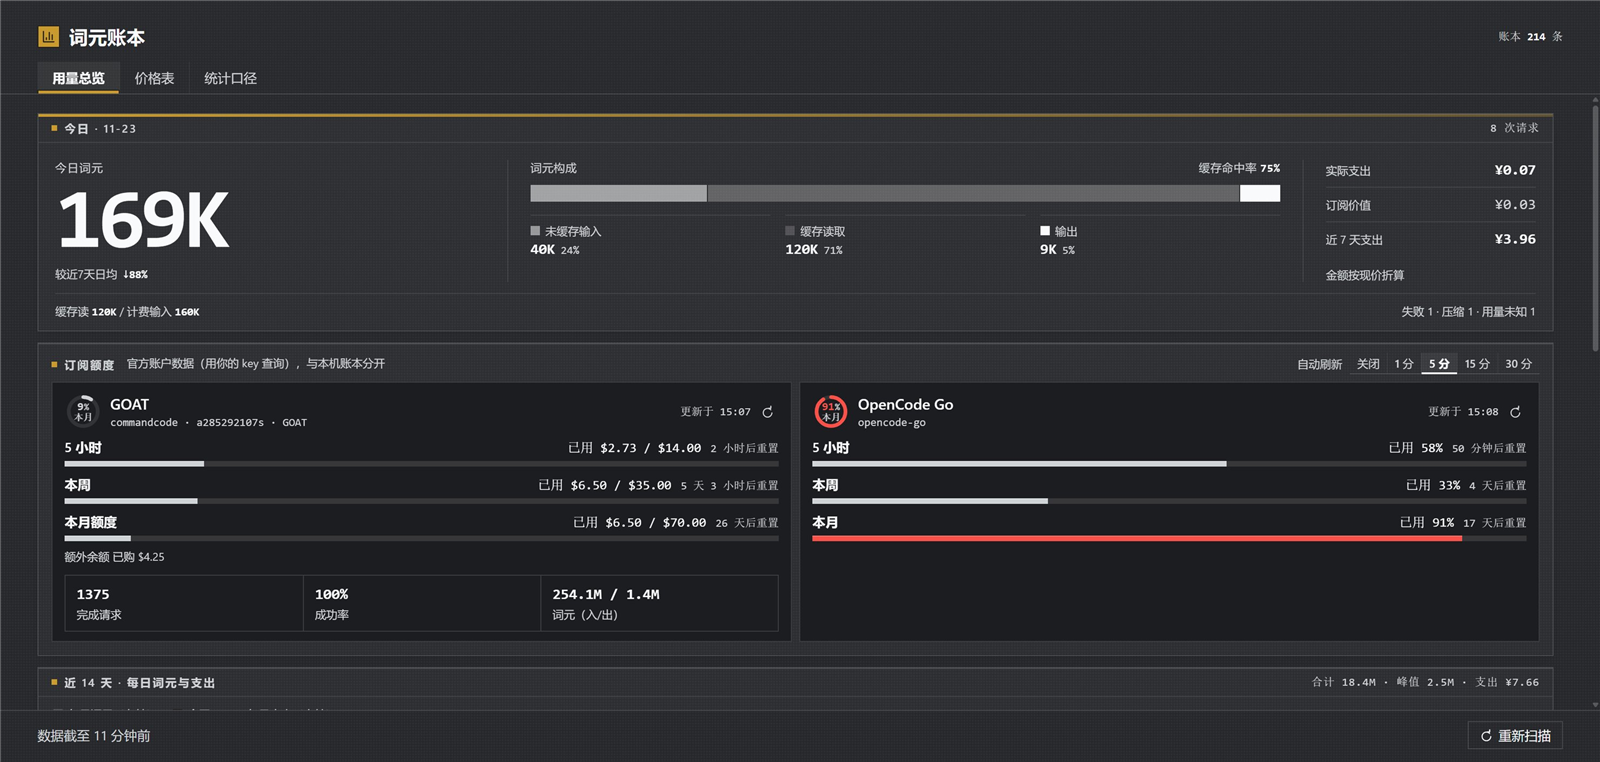
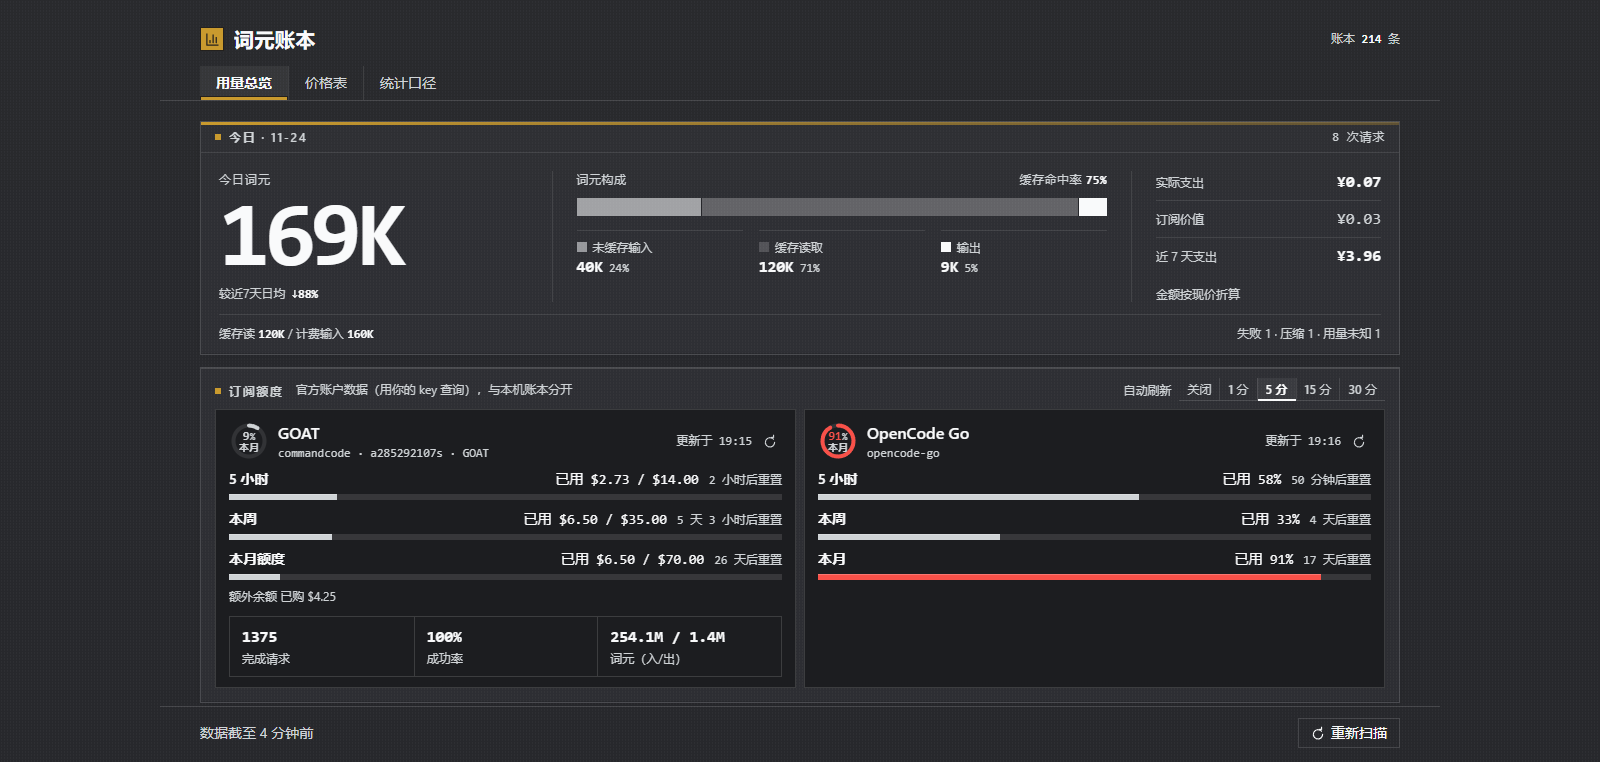
docs: README 截图按现界面重拍，价格表段对齐
- 六张界面图（总览浅/深、价格表、统计口径、用量明细、订阅额度）停在旧版：版心还是 1760、
  年历还是旧交互。用 fixture 预览台按当前界面全部重拍，替换 docs/assets/ 下的同名文件。
- README.md 价格表那段跟着现行版式重写：现在是「选择卡（通道 / 模型 / 汇率）+ 满行工作台
  （左编辑表、右此刻计费轨）」，法定节假日年历是工作台下方一张独立满行卡，按年分组、点起止日
  划一段假期，每段可改可删且可撤销；旧说法「工作台里含年历、汇率在选择带」已过时。
- meta last-reviewed 刷到 2026-11-24。

两张 README 共用 docs/assets/ 这批图，所以中文那份引用的也是新图（其正文本次不改）。

diff --git a/README.md b/README.md
@@ -1,6 +1,6 @@
 # dsh-tokbook
 
-> **Doc meta** · role: entry · language: en · status: current · last-reviewed: 2026-11-23 · supersedes: —
+> **Doc meta** · role: entry · language: en · status: current · last-reviewed: 2026-11-24 · supersedes: —
 
 A **cross-session token-usage ledger for DeepSeek Harness (DSH)**. The host half folds every billed model
 call into one row of a local, per-day JSONL ledger and aggregates it with costs; the browser half shows it
@@ -74,11 +74,11 @@ view reports tokens only. Tokens are facts, prices are not.
    Usage detail** as a full-width table. Money appears only in windows of 30 days or less. The cards keep
    their full-row width; their internal grids collapse (today: three zones → two → one, quota: two cards
    → one) as the container narrows.
-2. **价格表 / Pricing** — a selector strip, then one full-width workbench containing the **price detail**
-   and the **statutory-holiday calendar**. Pick a route and a model, then write its current price (four
-   tiers plus optional peak/off-peak slots); the editable table sits on the left and a compact live rail on
-   the right reports the four rates in force now (or just "base price" when no slot is active). The FX rate
-   lives in the selector strip.
+2. **价格表 / Pricing** — a selector card (route, model, FX rate), then a full-width workbench: the editable
+   price table on the left holds the four tiers plus optional peak/off-peak slots, and a compact live rail on
+   the right reports the four rates in force now (or just "base price" when no slot is active). A full-width
+   **statutory-holiday calendar** card sits below it, one calendar per year: click a start and end day to mark
+   a stretch of holidays, and edit or delete any stretch (deletions, and edits, are undoable).
 3. **统计口径 / Method** — a centered reading column of full-width document cards: intro and quick facts,
    the four token buckets, the call-classification table, reconciliation gaps, field mapping, and the data
    footer. What is not estimated, what is missing, and how the numbers reconcile.
